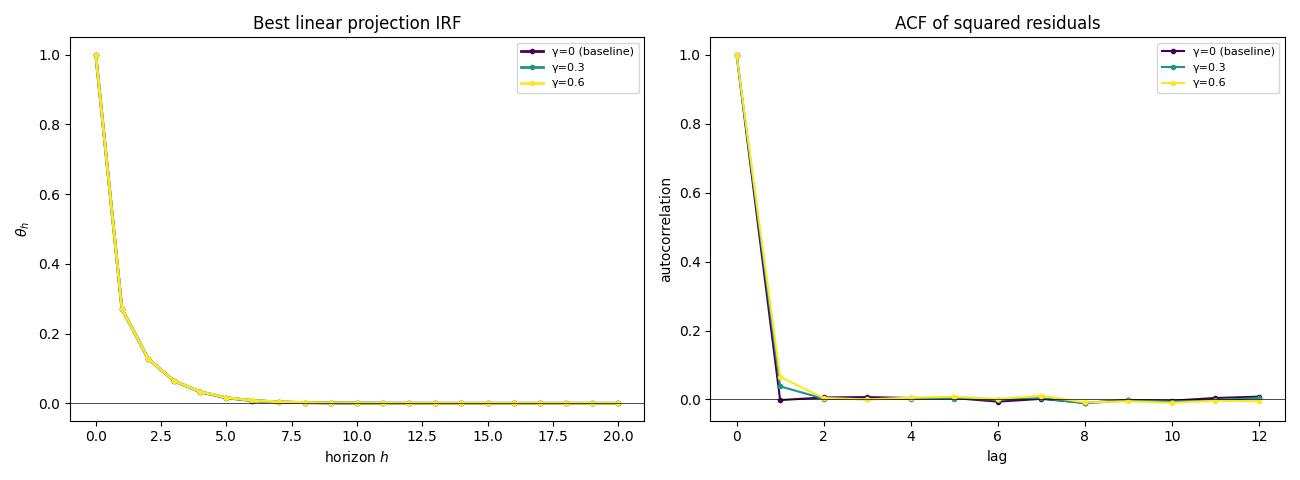
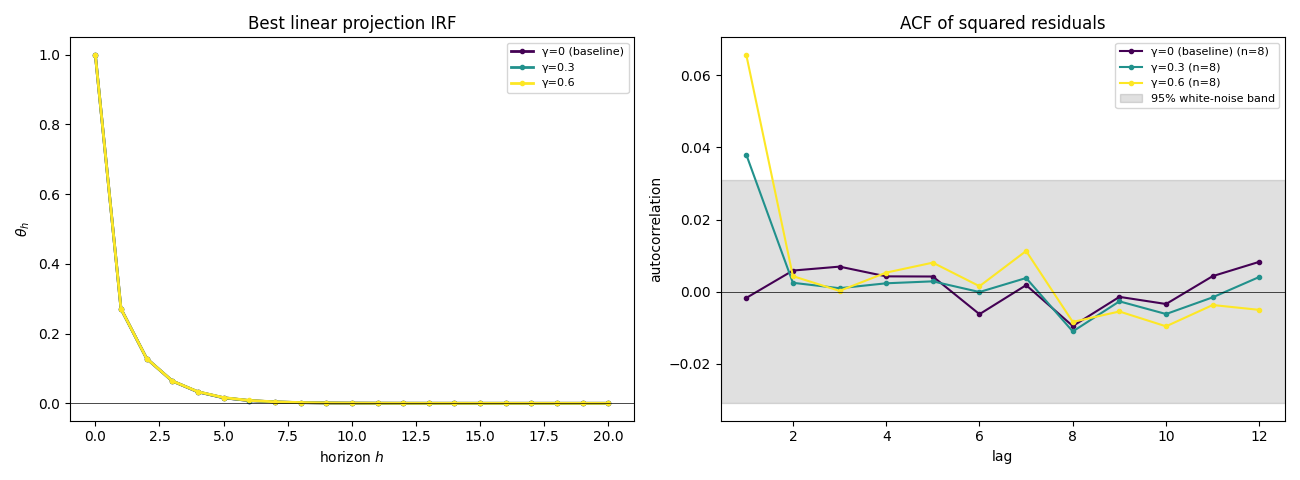
add ACF significance

diff --git a/src/mcsim/dgp.py b/src/mcsim/dgp.py
@@ -14,7 +14,7 @@ import numpy as np
 
 
 # ---------------------------------------------------------------------------
-# Vector autoregression (the baseline DGP of the study)
+# Vector autoregression (the baseline DGP of the paper)
 # ---------------------------------------------------------------------------
 
 @dataclass
@@ -289,122 +289,6 @@ def simulate_varma(
 
 
 # ---------------------------------------------------------------------------
-# VAR(p) with a mean-zero quadratic structural-shock term (Extension 2)
-# ---------------------------------------------------------------------------
-#
-# Used by Extension 2 (functional misspecification): the linear VAR dynamics of
-# the baseline are augmented by a nonlinear, mean-zero quadratic term in the
-# first structural shock. The LP and VAR estimators are applied unchanged, so
-# the nonlinearity is a *functional* misspecification of their linear model.
-
-
-@dataclass
-class QuadShockVARSpec:
-    """VAR(p) with a mean-zero quadratic structural-shock term (Extension 2).
-
-        y_t = A_1 y_{t-1} + ... + A_p y_{t-p} + u_t + gamma * c(eps_{1,t}),
-        u_t = B eps_t,   eps_t ~ iid N(0, I_K),
-        c(eps_{1,t}) = (0, eps_{1,t}^2 - 1)'  (mean-zero quadratic in the first
-        structural shock, entering the *second* equation only).
-
-    Parameters
-    ----------
-    A : array (p, K, K)
-        Autoregressive matrices A_1, ..., A_p (the linear component, as in
-        :class:`VARSpec`). The quadratic term does not affect stability.
-    B : array (K, K)
-        Lower-triangular structural impact matrix, Sigma_u = B B' (as in VARSpec).
-    gamma : float
-        Nonlinearity strength. ``gamma = 0`` nests the baseline :class:`VARSpec`.
-
-    Notes
-    -----
-    The centring ``eps_{1,t}^2 - 1`` makes the quadratic term mean-zero, so the
-    *best linear approximation* to the (nonlinear) IRF is the linear-component
-    IRF ``theta_h = (Psi_h B)[response, shock]`` -- which is gamma-INDEPENDENT
-    and equals the baseline VAR(4) estimand. Both LP and VAR target this same
-    linear object in population (Plagborg-Moller & Wright, Prop. 1), so the
-    quadratic term is not approximable by higher-order linear VARs: the
-    complexity-adjusted VAR sweep has no approximation advantage here, and any
-    finite-sample divergence reflects the inference channel (non-Gaussian,
-    square-dependent Wold innovations) rather than differential bias.
-    """
-
-    A: np.ndarray
-    B: np.ndarray
-    gamma: float = 0.0
-
-    def __post_init__(self):
-        self.A = np.asarray(self.A, dtype=float)
-        self.B = np.asarray(self.B, dtype=float)
-        self.gamma = float(self.gamma)
-        if self.A.ndim != 3 or self.A.shape[1] != self.A.shape[2]:
-            raise ValueError("A must have shape (p, K, K).")
-        if self.A.shape[1] < 2:
-            raise ValueError("QuadShockVARSpec needs K >= 2 (term enters eq. 2).")
-        if self.B.shape != (self.A.shape[1], self.A.shape[1]):
-            raise ValueError("B must have shape (K, K) matching A.")
-
-    @property
-    def p(self) -> int:
-        return self.A.shape[0]
-
-    @property
-    def k(self) -> int:
-        return self.A.shape[1]
-
-    def linear_spec(self) -> "VARSpec":
-        """The linear-component VAR (drop the quadratic term)."""
-        return VARSpec(A=self.A, B=self.B)
-
-
-def quad_shock_irf(
-    spec: QuadShockVARSpec, horizon: int, shock: int = 0, response: int = 0
-) -> np.ndarray:
-    """Best-linear-approximation IRF of the quadratic-shock DGP, h = 0..H.
-
-    Because the quadratic term is mean-zero, the estimand both LP and VAR target
-    in population is the linear-component IRF ``theta_h = (Psi_h B)[response,
-    shock]`` -- identical to the baseline VAR(p) and INDEPENDENT of ``gamma``.
-    """
-    return var_irf(spec.linear_spec(), horizon, shock=shock, response=response)
-
-
-def simulate_quad_shock_var(
-    spec: QuadShockVARSpec,
-    T: int,
-    rng: np.random.Generator,
-    burnin: int = 200,
-    return_shocks: bool = False,
-):
-    """Simulate a length-T path from a quadratic-shock VAR, discarding burn-in.
-
-    Returns an array of shape (T, K). If ``return_shocks`` is True, returns the
-    tuple ``(y, eps)`` where ``eps`` (shape (T, K)) are the structural shocks
-    that generated ``y``, aligned row-for-row.
-    """
-    A, B, gamma = spec.A, spec.B, spec.gamma
-    p, k = spec.p, spec.k
-    n = T + burnin
-    eps = rng.standard_normal((n, k))
-    # Mean-zero quadratic term c(eps_{1,t}) = (0, eps_{1,t}^2 - 1)': nonzero in eq. 2.
-    c = np.zeros((n, k))
-    c[:, 1] = eps[:, 0] ** 2 - 1.0
-    y = np.zeros((n, k))
-    # np.errstate: macOS Accelerate BLAS spuriously raises FPE flags in matmul.
-    with np.errstate(divide="ignore", over="ignore", invalid="ignore"):
-        u = eps @ B.T + gamma * c  # reduced-form innovation + nonlinear shock term
-        for t in range(p, n):
-            val = u[t].copy()
-            for i in range(1, p + 1):
-                val += A[i - 1] @ y[t - i]
-            y[t] = val
-    if return_shocks:
-        return y[burnin:], eps[burnin:]
-    return y[burnin:]
-
-
-# ---------------------------------------------------------------------------
 # Stationary covariance of a (linear) VAR(p) -- used to standardise the
 # nonlinear lag term below so its scale is comparable across persistence levels.
 # ---------------------------------------------------------------------------
@@ -437,8 +321,7 @@ def stationary_cov(A: np.ndarray, B: np.ndarray) -> np.ndarray:
 # ---------------------------------------------------------------------------
 #
 # Used by the nonlinear-DGP extension: the conditional mean itself is nonlinear
-# in the lagged state (a squared lag of the first variable), so -- unlike the
-# mean-zero shock-quadratic of QuadShockVARSpec -- this is a genuine
+# in the lagged state (a squared lag of the first variable), so this is a genuine
 # misspecification of the linear model with a non-vanishing *bias channel*. The
 # squared term is standardised by the first variable's linear stationary SD and
 # centred, so gamma=0 nests the baseline VARSpec and the term stays O(1) in

diff --git a/Documents/chap/chap_5.tex b/Documents/chap/chap_5.tex
@@ -46,11 +46,7 @@ regardless of whether the DGP is linear (Proposition~1, p.~960). Under
 comparable lag information, both estimators thus provide an equal linear approximation 
 of the non-linear DGP, and any finite-sample divergence 
 reflects differences in the bias-variance tradeoff rather than differential 
-robustness to nonlinearity per se. 
-
-
-This makes 
-Extension~2 complementary to Extension~1, as whereas Extension~1 isolates the 
+robustness to nonlinearity per se. This makes Extension~2 complementary to Extension~1, as whereas Extension~1 isolates the 
 bias channel under invertible dynamic misspecification, Extension~2 isolates 
 functional-form misspecification in the conditional mean. 
 
@@ -91,6 +87,8 @@ Persistence is varied across $\rho \in \{0.5,0.7\}$, while sample sizes are chos
 \end{minipage}
 
 \end{figure}
+
+\ref{fig:NON_LIN_IRF} shows the true IRF form 
 
 
 % ----------------------------------- Small Sample Deviation from Truth